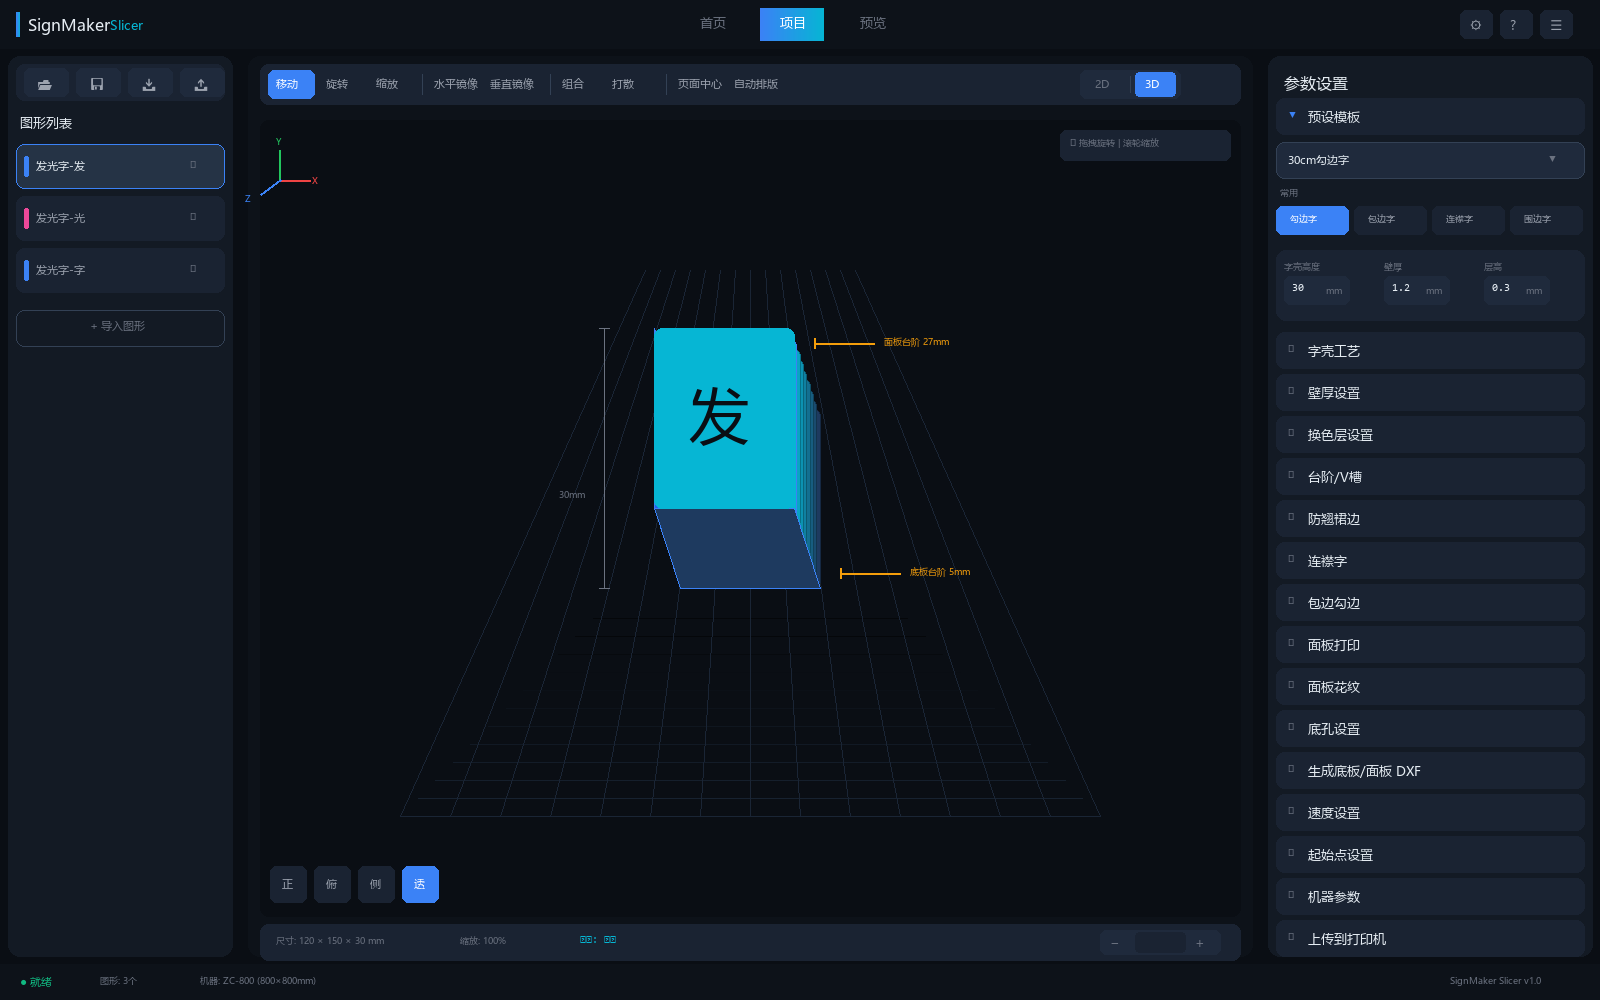
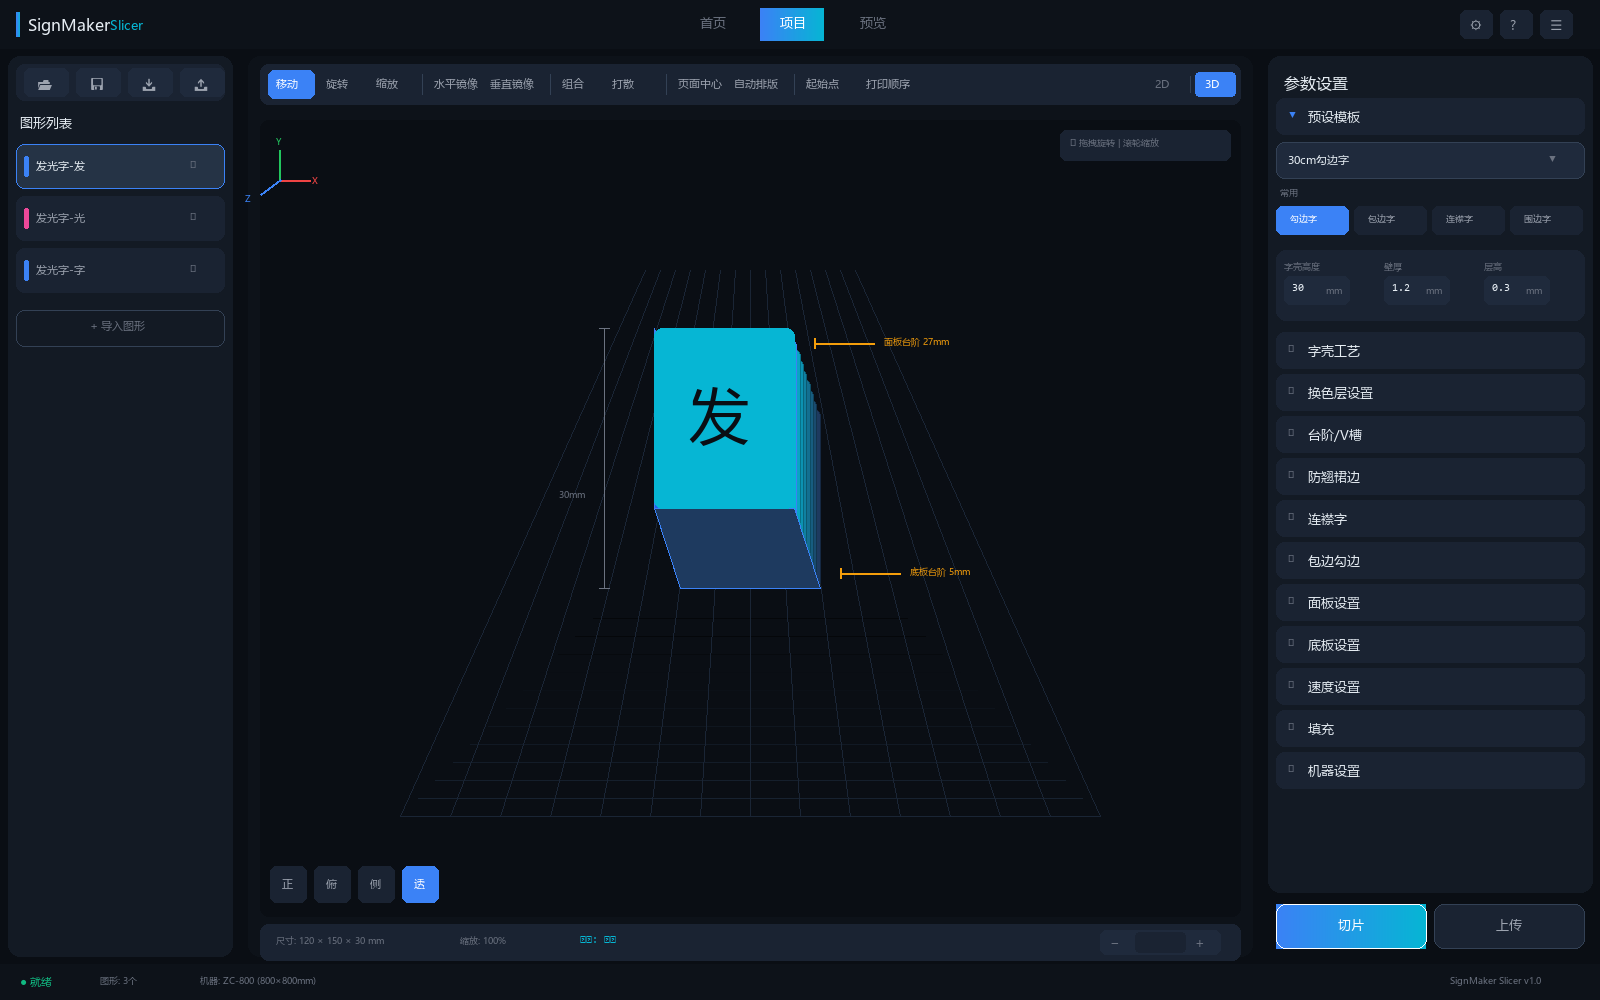
优化工具栏和面板设计，添加切片和上传按钮

diff --git a/scripts/generate_ui_modern.py b/scripts/generate_ui_modern.py
@@ -236,9 +236,20 @@ for tool in edit_tools_4:
     draw_text(etx, canvas_toolbar_y + 12, tool, font_body, C["text_secondary"])
     etx += tw
 
-# 视图切换 (右侧)
-view_x = canvas_x + canvas_w - 180
-draw_rounded_rect(view_x, canvas_toolbar_y + 6, 100, 28, 6, fill=C["bg_elevated"])
+# 分隔线
+draw.line([(etx + 4, canvas_toolbar_y + 10), (etx + 4, canvas_toolbar_y + 30)], fill=C["border_default"])
+etx += 16
+
+# 编辑工具组5 - 起始点设置
+draw_text(etx, canvas_toolbar_y + 12, "起始点", font_body, C["text_secondary"])
+etx += 60
+
+# 编辑工具组6 - 打印顺序编辑
+draw_text(etx, canvas_toolbar_y + 12, "打印顺序", font_body, C["text_secondary"])
+etx += 70
+
+# 视图切换 (最右侧)
+view_x = canvas_x + canvas_w - 120  # 工具栏右边距
 draw_text(view_x + 15, canvas_toolbar_y + 12, "2D", font_body, C["accent_primary"])
 draw.line([(view_x + 50, canvas_toolbar_y + 12), (view_x + 50, canvas_toolbar_y + 28)], fill=C["border_default"])
 draw_text(view_x + 65, canvas_toolbar_y + 12, "3D", font_body, C["text_muted"])
@@ -289,7 +300,8 @@ draw_text(zoom_x + 95, info_y + 10, "+", font_h2, C["text_muted"])
 # 右侧属性面板 - 现代卡片式设计
 # ============================================
 right_x = WIDTH - SIDEBAR_RIGHT_W
-draw_rounded_rect(right_x + 8, content_y + 8, SIDEBAR_RIGHT_W - 16, content_h - 16, 12, fill=C["bg_secondary"])
+# 面板高度减小，给底部按钮留出空间
+draw_rounded_rect(right_x + 8, content_y + 8, SIDEBAR_RIGHT_W - 16, content_h - 80, 12, fill=C["bg_secondary"])
 
 # 面板标题
 draw_text(right_x + 24, content_y + 24, "参数设置", font_h1, C["text_primary"])
@@ -348,20 +360,16 @@ for label, value, unit in quick_params:
 # 可折叠参数组 - 全部折叠只显示标题
 sections = [
     ("字壳工艺", False, []),
-    ("壁厚设置", False, []),
     ("换色层设置", False, []),
     ("台阶/V槽", False, []),
     ("防翘裙边", False, []),
     ("连襟字", False, []),
     ("包边勾边", False, []),
-    ("面板打印", False, []),
-    ("面板花纹", False, []),
-    ("底孔设置", False, []),
-    ("生成底板/面板 DXF", False, []),
+    ("面板设置", False, []),
+    ("底板设置", False, []),
     ("速度设置", False, []),
-    ("起始点设置", False, []),
-    ("机器参数", False, []),
-    ("上传到打印机", False, []),
+    ("填充", False, []),
+    ("机器设置", False, []),
 ]
 
 section_y = card_y + 82
@@ -375,6 +383,21 @@ for section_name, expanded, params in sections:
     draw_text(right_x + 48, section_y + 10, section_name, font_h2, C["text_primary"])
 
     section_y += 42
+
+# 右侧面板底部按钮区域（面板外）
+btn_area_y = content_y + content_h - 60
+
+# 切片按钮 - 渐变主按钮
+slice_btn_w = 150
+draw_gradient_rect(right_x + 16, btn_area_y, slice_btn_w, 44)
+draw_rounded_rect(right_x + 16, btn_area_y, slice_btn_w, 44, 10, outline=None)
+draw_text(right_x + 16 + (slice_btn_w - 26) // 2, btn_area_y + 12, "切片", font_h2, (255,255,255))
+
+# 上传按钮
+upload_btn_w = 150
+upload_btn_x = right_x + 16 + slice_btn_w + 8
+draw_rounded_rect(upload_btn_x, btn_area_y, upload_btn_w, 44, 10, fill=C["bg_card"], outline=C["border_default"])
+draw_text(upload_btn_x + (upload_btn_w - 26) // 2, btn_area_y + 12, "上传", font_h2, C["text_secondary"])
 
 # ============================================
 # 底部状态栏

diff --git a/scripts/generate_ui_project_3d.py b/scripts/generate_ui_project_3d.py
@@ -207,9 +207,20 @@ for tool in edit_tools_4:
     draw_text(etx, canvas_toolbar_y + 12, tool, font_body, C["text_secondary"])
     etx += tw
 
-# 视图切换 (右侧) - 3D激活状态
-view_x = canvas_x + canvas_w - 180
-draw_rounded_rect(view_x, canvas_toolbar_y + 6, 100, 28, 6, fill=C["bg_elevated"])
+# 分隔线
+draw.line([(etx + 4, canvas_toolbar_y + 10), (etx + 4, canvas_toolbar_y + 30)], fill=C["border_default"])
+etx += 16
+
+# 编辑工具组5 - 起始点设置
+draw_text(etx, canvas_toolbar_y + 12, "起始点", font_body, C["text_secondary"])
+etx += 60
+
+# 编辑工具组6 - 打印顺序编辑
+draw_text(etx, canvas_toolbar_y + 12, "打印顺序", font_body, C["text_secondary"])
+etx += 70
+
+# 视图切换 (最右侧) - 3D激活状态
+view_x = canvas_x + canvas_w - 120  # 工具栏右边距
 draw_text(view_x + 15, canvas_toolbar_y + 12, "2D", font_body, C["text_muted"])
 draw.line([(view_x + 50, canvas_toolbar_y + 12), (view_x + 50, canvas_toolbar_y + 28)], fill=C["border_default"])
 # 3D激活
@@ -398,7 +409,8 @@ draw_text(zoom_x + 95, info_y + 10, "+", font_h2, C["text_muted"])
 # 右侧属性面板 - 现代卡片式设计
 # ============================================
 right_x = WIDTH - SIDEBAR_RIGHT_W
-draw_rounded_rect(right_x + 8, content_y + 8, SIDEBAR_RIGHT_W - 16, content_h - 16, 12, fill=C["bg_secondary"])
+# 面板高度减小，给底部按钮留出空间
+draw_rounded_rect(right_x + 8, content_y + 8, SIDEBAR_RIGHT_W - 16, content_h - 80, 12, fill=C["bg_secondary"])
 
 # 面板标题
 draw_text(right_x + 24, content_y + 24, "参数设置", font_h1, C["text_primary"])
@@ -457,20 +469,16 @@ for label, value, unit in quick_params:
 # 可折叠参数组 - 全部折叠只显示标题
 sections = [
     ("字壳工艺", False, []),
-    ("壁厚设置", False, []),
     ("换色层设置", False, []),
     ("台阶/V槽", False, []),
     ("防翘裙边", False, []),
     ("连襟字", False, []),
     ("包边勾边", False, []),
-    ("面板打印", False, []),
-    ("面板花纹", False, []),
-    ("底孔设置", False, []),
-    ("生成底板/面板 DXF", False, []),
+    ("面板设置", False, []),
+    ("底板设置", False, []),
     ("速度设置", False, []),
-    ("起始点设置", False, []),
-    ("机器参数", False, []),
-    ("上传到打印机", False, []),
+    ("填充", False, []),
+    ("机器设置", False, []),
 ]
 
 section_y = card_y + 82
@@ -484,6 +492,21 @@ for section_name, expanded, params in sections:
     draw_text(right_x + 48, section_y + 10, section_name, font_h2, C["text_primary"])
 
     section_y += 42
+
+# 右侧面板底部按钮区域（面板外）
+btn_area_y = content_y + content_h - 60
+
+# 切片按钮 - 渐变主按钮
+slice_btn_w = 150
+draw_gradient_rect(right_x + 16, btn_area_y, slice_btn_w, 44)
+draw_rounded_rect(right_x + 16, btn_area_y, slice_btn_w, 44, 10, outline=None)
+draw_text(right_x + 16 + (slice_btn_w - 26) // 2, btn_area_y + 12, "切片", font_h2, (255,255,255))
+
+# 上传按钮
+upload_btn_w = 150
+upload_btn_x = right_x + 16 + slice_btn_w + 8
+draw_rounded_rect(upload_btn_x, btn_area_y, upload_btn_w, 44, 10, fill=C["bg_card"], outline=C["border_default"])
+draw_text(upload_btn_x + (upload_btn_w - 26) // 2, btn_area_y + 12, "上传", font_h2, C["text_secondary"])
 
 # ============================================
 # 底部状态栏
